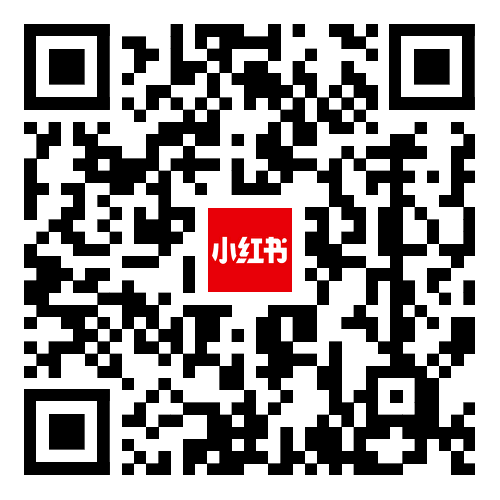
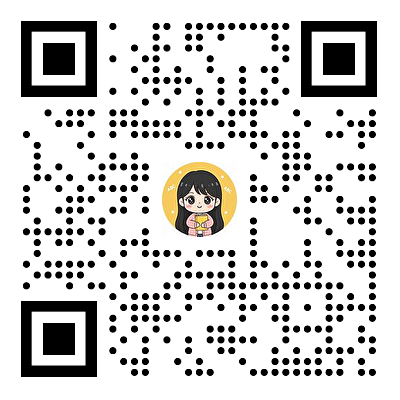
优化官网二维码

diff --git a/index.html b/index.html
@@ -4,7 +4,7 @@
   <meta charset="UTF-8">
   <meta name="viewport" content="width=device-width, initial-scale=1.0">
   <title>班宠乐园 - 游戏化班级管理工具｜宠物养成×课堂评分×随机点名｜小学班主任神器</title>
-  <meta name="description" content="班宠乐园是专为小学老师打造的游戏化班级管理工具。50种虚拟萌宠养成激励学生，3秒完成课堂加分扣分，告别Excel和小红花。支持随机点名、幸运转盘、抢答计分、课堂计时器等6大教学工具，班级积分兑换礼物，光荣榜排行榜激发学生上进心。一次购买永久使用，班主任课堂管理神器。">
+  <meta name="description" content="班宠乐园是专为小学老师打造的游戏化班级管理工具。60种虚拟萌宠养成激励学生，3秒完成课堂加分扣分，告别Excel和小红花。支持随机点名、幸运转盘、抢答计分、课堂计时器等6大教学工具，班级积分兑换礼物，光荣榜排行榜激发学生上进心。一次购买永久使用，班主任课堂管理神器。">
   <meta name="keywords" content="班级管理,班级管理工具,班级管理软件,班级管理系统,班级管理神器,班级管理方法,小学班级管理,在线班级管理,课堂管理,课堂管理工具,课堂纪律管理,学生行为管理,班主任工具,班主任神器,班主任管理工具,教学辅助工具,小学老师工具,小学老师课堂管理神器,游戏化教学,游戏化班级管理,教学游戏化,课堂互动工具,课堂游戏,班宠乐园,班宠,班级宠物,宠物打卡,养宠物管理班级,课堂宠物养成,虚拟宠物养成,宠物养成激励,课堂评分,课堂评分工具,课堂加分扣分,学生评分系统,班级积分,班级积分系统,积分商城,积分兑换礼物,学生积分奖励工具,班级奖励,班级奖惩,学生激励,小红花替代,告别小红花,随机点名,随机点名工具,课堂点名,点名器,幸运转盘,课堂抢答,抢答器,课堂计时器,班级座位表,班级分组,小组管理,班级光荣榜,班级排行榜,学生打卡,班级优化大师替代,班级优化大师平替,ClassDojo中文版,ClassDojo替代,班级小管家">
   <meta name="author" content="班宠乐园">
   <meta name="robots" content="index, follow, max-snippet:-1, max-image-preview:large">
@@ -12,7 +12,7 @@
   <link rel="canonical" href="https://www.learnstar.cn">
   <!-- Open Graph -->
   <meta property="og:title" content="班宠乐园 - 小学老师的游戏化班级管理工具">
-  <meta property="og:description" content="50种萌宠 + 10级成长 + 5套主题 = 孩子们每天都期待的课堂。告别Excel和小红花，3秒完成评分。">
+  <meta property="og:description" content="60种萌宠 + 10级成长 + 5套主题 = 孩子们每天都期待的课堂。告别Excel和小红花，3秒完成评分。">
   <meta property="og:type" content="website">
   <meta property="og:url" content="https://www.learnstar.cn">
   <meta property="og:image" content="https://www.learnstar.cn/images/screenshots/hero.jpg">
@@ -23,7 +23,7 @@
   <!-- Twitter Card -->
   <meta name="twitter:card" content="summary_large_image">
   <meta name="twitter:title" content="班宠乐园 - 小学老师的游戏化班级管理工具">
-  <meta name="twitter:description" content="50种萌宠养成激励学生，3秒完成课堂评分，6大教学工具让课堂更有趣。">
+  <meta name="twitter:description" content="60种萌宠养成激励学生，3秒完成课堂评分，6大教学工具让课堂更有趣。">
   <meta name="twitter:image" content="https://www.learnstar.cn/images/screenshots/hero.jpg">
   <!-- Favicon -->
   <link rel="icon" href="images/favicon.svg" type="image/svg+xml">
@@ -46,7 +46,7 @@
       "priceCurrency": "CNY",
       "availability": "https://schema.org/InStock"
     },
-    "featureList": ["50种虚拟宠物养成", "10级成长体系", "一键课堂评分", "随机点名", "幸运转盘", "抢答计分", "倒计时", "座位抽签", "礼物兑换", "班级光荣榜", "5套主题切换"],
+    "featureList": ["60种虚拟宠物养成", "10级成长体系", "一键课堂评分", "随机点名", "幸运转盘", "抢答计分", "倒计时", "座位抽签", "礼物兑换", "班级光荣榜", "5套主题切换"],
     "screenshot": "https://www.learnstar.cn/images/screenshots/hero.jpg",
     "author": {
       "@type": "Organization",
@@ -132,11 +132,11 @@
         <img src="images/favicon.svg" alt="班宠乐园" class="w-8 h-8">
         <span class="font-display text-[22px] text-slate-800">班宠乐园</span>
       </a>
-      <div class="flex items-center gap-6">
-        <a href="#features" class="hidden md:inline text-sm text-slate-600 hover:text-emerald-600 transition-colors no-underline">功能</a>
-        <a href="#scenes" class="hidden md:inline text-sm text-slate-600 hover:text-emerald-600 transition-colors no-underline">场景</a>
-        <a href="#faq" class="hidden md:inline text-sm text-slate-600 hover:text-emerald-600 transition-colors no-underline">常见问题</a>
-        <a href="#cta" data-xhs="https://xhslink.com/m/204FXEIEJYU" class="js-cta inline-flex items-center px-5 py-2 text-white text-sm font-bold rounded-full transition-all hover:-translate-y-0.5 active:scale-[0.97] no-underline" style="background:linear-gradient(135deg,#10B981,#059669);box-shadow:0 2px 12px rgba(16,185,129,0.4)">立即体验</a>
+      <div class="flex items-center gap-3">
+        <a href="https://pet.learnstar.cn" class="inline-flex items-center px-5 py-2 text-slate-700 text-sm font-bold rounded-full transition-all hover:-translate-y-0.5 active:scale-[0.97] no-underline" style="background:rgba(255,255,255,0.92);border:1px solid rgba(16,185,129,0.18);box-shadow:0 2px 10px rgba(15,23,42,0.06)">
+          注册/登录
+        </a>
+        <a href="#cta" data-xhs="https://xhslink.com/m/204FXEIEJYU" class="js-cta inline-flex items-center px-5 py-2 text-white text-sm font-bold rounded-full transition-all hover:-translate-y-0.5 active:scale-[0.97] no-underline" style="background:linear-gradient(135deg,#10B981,#059669);box-shadow:0 2px 12px rgba(16,185,129,0.4)">立即购买</a>
       </div>
     </div>
   </nav>
@@ -176,13 +176,13 @@
 
       <!-- 副标题 -->
       <p class="fade-up text-emerald-700 text-[clamp(15px,2vw,18px)] mb-8 max-w-xl mx-auto font-medium">
-        50种萌宠 + 10级成长 + 5套主题<br class="md:hidden"> = 孩子们每天都期待的课堂
+        60种萌宠 + 10级成长 + 5套主题<br class="md:hidden"> = 孩子们每天都期待的课堂
       </p>
 
       <!-- CTA 按钮（移动端隐藏，用底部悬浮代替） -->
       <div class="fade-up mb-12 md:mb-16">
         <a href="#cta" data-xhs="https://xhslink.com/m/204FXEIEJYU" class="js-cta hidden md:inline-flex items-center px-8 py-3.5 text-white font-bold text-base rounded-full hover:-translate-y-0.5 active:scale-[0.97] transition-all no-underline" style="background:linear-gradient(135deg,#10B981,#059669);box-shadow:0 4px 20px rgba(16,185,129,0.45),0 2px 8px rgba(0,0,0,0.1)">
-          立即体验
+          立即购买
         </a>
         <p class="mt-3 text-emerald-600/70 text-sm">一次购买 · 永久使用 · 持续更新</p>
       </div>
@@ -264,7 +264,7 @@
         <div class="flex flex-col md:flex-row items-center gap-10 md:gap-14">
           <!-- 左：文字 -->
           <div class="fade-up w-full md:w-[42%]">
-            <h2 class="font-display text-[clamp(24px,4vw,32px)] text-slate-800 mb-4">50 种萌宠，10 级成长</h2>
+            <h2 class="font-display text-[clamp(24px,4vw,32px)] text-slate-800 mb-4">60 种萌宠，10 级成长</h2>
             <p class="text-slate-600 leading-relaxed mb-6">
               每个学生领养一只虚拟宠物。做作业、认真听讲、帮助同学……每次好的表现都能让宠物获得食物
               <img src="https://cdn.jsdelivr.net/gh/twitter/twemoji@14.0.2/assets/svg/1f356.svg" alt="🍖" class="w-4 h-4 inline-block align-text-bottom">，
@@ -274,7 +274,7 @@
             </p>
             <div class="flex flex-wrap gap-2">
               <span class="inline-flex items-center gap-1.5 px-3 py-1.5 bg-emerald-100 rounded-xl text-sm text-emerald-700 font-medium">
-                <img src="https://cdn.jsdelivr.net/gh/twitter/twemoji@14.0.2/assets/svg/1f436.svg" alt="🐕" class="w-4 h-4"> 50种宠物品种
+                <img src="https://cdn.jsdelivr.net/gh/twitter/twemoji@14.0.2/assets/svg/1f436.svg" alt="🐕" class="w-4 h-4"> 60种宠物品种
               </span>
               <span class="inline-flex items-center gap-1.5 px-3 py-1.5 bg-blue-100 rounded-xl text-sm text-blue-700 font-medium">
                 <img src="https://cdn.jsdelivr.net/gh/twitter/twemoji@14.0.2/assets/svg/1f4c8.svg" alt="📈" class="w-4 h-4"> 10级成长体系
@@ -287,14 +287,50 @@
           <!-- 右：产品截图 -->
           <div class="fade-up w-full md:w-[58%]">
             <div class="rounded-xl overflow-hidden" style="box-shadow:0 4px 8px rgba(0,0,0,0.04),0 16px 40px rgba(16,185,129,0.12),0 30px 80px rgba(16,185,129,0.08);border:2px solid rgba(255,255,255,0.7)">
-              <img src="images/screenshots/chongwu.webp" alt="班宠乐园50种虚拟萌宠 - 宠物养成激励学生" class="w-full img-preview" loading="lazy" decoding="async" width="1084" height="1140" onclick="showPreview(this.src,this.alt)">
+              <img src="images/screenshots/chongwu.webp" alt="班宠乐园60种虚拟萌宠 - 宠物养成激励学生" class="w-full img-preview" loading="lazy" decoding="async" width="1084" height="1140" onclick="showPreview(this.src,this.alt)">
             </div>
           </div>
         </div>
       </div>
     </section>
 
-    <!-- 功能二：打卡评分 - 左截图右文（镜像） -->
+    <!-- 功能二：饥饿模式 - 居中大卡 -->
+    <section class="py-16 md:py-24 relative overflow-hidden bg-grain" style="background:linear-gradient(180deg,#F2FCF7 0%,#F8FDFB 100%)">
+      <div class="max-w-[1100px] mx-auto px-5">
+        <div class="max-w-[760px] mx-auto text-center mb-10">
+          <span class="fade-up inline-flex items-center gap-1.5 px-3 py-1 rounded-full text-xs font-semibold mb-3 tag-cream" style="background:#D1FAE5;color:#047857">
+            <img src="https://cdn.jsdelivr.net/gh/twitter/twemoji@14.0.2/assets/svg/1f356.svg" alt="🍖" class="w-3.5 h-3.5"> 进阶玩法
+          </span>
+          <h2 class="fade-up font-display text-[clamp(24px,4vw,32px)] text-slate-800 mb-4">饥饿模式，让宠物养成更有牵引力</h2>
+          <p class="fade-up text-slate-600 leading-relaxed mb-6">
+            可以给已领养且未满级的宠物设置“多久进入饥饿、多久进入死亡阶段”。支持跳过法定节假日和周末，
+            学生一旦松懈，宠物状态会立刻变化；重新加分后又能马上恢复，激励会更直观。
+          </p>
+          <div class="fade-up flex flex-wrap items-center justify-center gap-2">
+            <span class="inline-flex items-center gap-1.5 px-3 py-1.5 bg-emerald-100 rounded-xl text-sm text-emerald-700 font-medium">
+              <img src="https://cdn.jsdelivr.net/gh/twitter/twemoji@14.0.2/assets/svg/1f43e.svg" alt="🐾" class="w-4 h-4"> 仅对已领养且未满级生效
+            </span>
+            <span class="inline-flex items-center gap-1.5 px-3 py-1.5 bg-blue-100 rounded-xl text-sm text-blue-700 font-medium">
+              <img src="https://cdn.jsdelivr.net/gh/twitter/twemoji@14.0.2/assets/svg/1f4c5.svg" alt="📅" class="w-4 h-4"> 支持跳过节假日
+            </span>
+            <span class="inline-flex items-center gap-1.5 px-3 py-1.5 bg-rose-100 rounded-xl text-sm text-rose-700 font-medium">
+              <img src="https://cdn.jsdelivr.net/gh/twitter/twemoji@14.0.2/assets/svg/23f3.svg" alt="⏳" class="w-4 h-4"> 饥饿后可继续进入死亡阶段
+            </span>
+          </div>
+        </div>
+
+        <div class="fade-up mx-auto" style="max-width:680px">
+          <div class="rounded-[28px] overflow-hidden" style="box-shadow:0 4px 8px rgba(0,0,0,0.04),0 18px 44px rgba(16,185,129,0.10),0 32px 90px rgba(245,158,11,0.10);border:2px solid rgba(255,255,255,0.75)">
+            <img src="images/screenshots/hungry.jpg" alt="班宠乐园宠物饥饿模式界面 - 左侧进入饥饿状态，右侧进入饿死状态" class="w-full img-preview" loading="lazy" decoding="async" width="930" height="669" onclick="showPreview(this.src,this.alt)">
+          </div>
+          <p class="mt-4 text-center text-sm text-slate-500">
+            左侧展示“肚子饿了”，右侧展示“饿死了”。老师再次加分后，宠物会立即恢复活力。
+          </p>
+        </div>
+      </div>
+    </section>
+
+    <!-- 功能三：打卡评分 - 左截图右文（镜像） -->
     <section class="py-16 md:py-24 relative overflow-hidden bg-grain" style="background:linear-gradient(180deg,#FFFDF5 0%,#FFFEF8 100%)">
       <div class="max-w-[1100px] mx-auto px-5">
         <div class="flex flex-col md:flex-row items-center gap-10 md:gap-14">
@@ -326,7 +362,7 @@
       </div>
     </section>
 
-    <!-- 功能三：礼物兑换 + 光荣榜 - 左文右截图 + 双卡 -->
+    <!-- 功能四：礼物兑换 + 光荣榜 - 左文右截图 + 双卡 -->
     <section class="py-16 md:py-24 relative overflow-hidden bg-grain" style="background:linear-gradient(180deg,#FFF8F8 0%,#FFFAFA 50%,#FFFDFD 100%)">
       <div class="max-w-[1100px] mx-auto px-5">
         <!-- 标题 + 截图区 -->
@@ -356,7 +392,7 @@
       </div>
     </section>
 
-    <!-- 功能四：工具箱 - 3x2 网格 -->
+    <!-- 功能五：工具箱 - 3x2 网格 -->
     <section class="py-16 md:py-24 relative overflow-hidden bg-grain" style="background:linear-gradient(180deg,#F9F8FD 0%,#FBFAFF 100%)">
       <div class="max-w-[1100px] mx-auto px-5">
         <div class="text-center mb-10">
@@ -552,8 +588,15 @@
       <p class="fade-up text-white/80 text-base mb-8">关注「橙老师」，获取使用教程和班级管理干货</p>
 
       <!-- 小红书二维码卡片 -->
-      <div class="fade-up inline-block bg-white rounded-[24px] p-6 shadow-2xl animate-breathe mb-6 card-cream" style="--card-shadow:rgba(16,185,129,0.15)">
-        <img src="images/screenshots/erwei.webp" alt="关注小红书橙老师 - 获取班宠乐园使用教程和班级管理干货" class="w-[260px] md:w-[300px] rounded-xl mx-auto" loading="lazy" decoding="async" width="987" height="1347">
+      <div class="fade-up inline-block animate-breathe mb-6" style="padding:12px;background:linear-gradient(180deg,#10B981 0%,#059669 100%);border-radius:36px;box-shadow:0 18px 50px rgba(4,120,87,0.28),0 8px 20px rgba(16,185,129,0.18)">
+        <div style="background:#ffffff;border-radius:30px;padding:18px 18px 26px;box-shadow:inset 0 1px 0 rgba(255,255,255,0.85)">
+          <div class="mx-auto mb-6 overflow-hidden" style="width:min(320px,74vw);aspect-ratio:1 / 1;border-radius:24px;background:#fff;box-shadow:inset 0 1px 0 rgba(255,255,255,0.9)">
+            <img src="images/screenshots/erweima.png" alt="关注小红书橙老师二维码" loading="lazy" decoding="async" width="400" height="400" style="display:block;width:100%;height:100%;object-fit:contain">
+          </div>
+          <div class="text-center px-2">
+            <h3 class="text-[clamp(18px,2.8vw,24px)] text-slate-800 font-bold leading-none mb-3">橙老师</h3>
+          </div>
+        </div>
       </div>
 
     </div>
@@ -568,7 +611,7 @@
         <span class="text-[11px] text-emerald-600/70">让孩子主动变优秀</span>
       </div>
     </div>
-    <span class="inline-flex items-center px-6 py-2.5 text-white font-bold text-sm rounded-full animate-breathe" style="background:linear-gradient(135deg,#10B981,#059669);box-shadow:0 4px 16px rgba(16,185,129,0.4)">立即体验</span>
+    <span class="inline-flex items-center px-6 py-2.5 text-white font-bold text-sm rounded-full animate-breathe" style="background:linear-gradient(135deg,#10B981,#059669);box-shadow:0 4px 16px rgba(16,185,129,0.4)">立即购买</span>
   </a>
 
   <!-- ========== Footer ========== -->

diff --git a/README.md b/README.md
@@ -1,0 +1,124 @@
+# 班宠乐园官网
+
+班宠乐园官网是 `learnstar.cn / www.learnstar.cn` 的独立静态站点，用于产品介绍、搜索收录和小红书流量承接。这个项目不是主应用 `class_pet` 的一部分，定位是单页营销落地页。
+
+## 项目定位
+
+- 面向从小红书、微信等渠道进入的小学老师用户
+- 核心目标是“介绍产品特点 -> 引导扫码/访问使用”
+- 页面风格强调可爱插画感、低模板味、强移动端适配
+
+## 技术栈
+
+- `HTML5`：页面结构全部写在 [index.html](./index.html)
+- `Tailwind CSS v4`：样式源文件是 [input.css](./input.css)
+- `原生 JavaScript`：交互逻辑在 [js/main.js](./js/main.js)
+- `自托管字体`：`/fonts`
+- `Cloudflare Pages`：静态部署
+
+当前线上入口实际引用的是 [dist/style.css](./dist/style.css)。
+
+## 目录结构
+
+```text
+learnstar-website/
+├── index.html
+├── input.css
+├── dist/
+│   └── style.css
+├── js/
+│   └── main.js
+├── fonts/
+├── images/
+│   ├── pets/
+│   └── screenshots/
+├── svg/
+├── _redirects
+├── robots.txt
+├── sitemap.xml
+└── package.json
+```
+
+补充说明：
+
+- `dist/style.css`：当前生效的编译产物
+- `css/style.css`：历史保留文件，当前 `index.html` 不引用它
+
+## 本地开发
+
+安装依赖：
+
+```bash
+pnpm install
+```
+
+监听 Tailwind 编译：
+
+```bash
+pnpm dev
+```
+
+生产构建：
+
+```bash
+pnpm build
+```
+
+如果需要本地预览静态页面，可以在项目根目录启动一个简单静态服务，例如：
+
+```bash
+python3 -m http.server 4173
+```
+
+然后访问 `http://localhost:4173`。
+
+## 修改入口
+
+常见改动对应文件如下：
+
+- 页面文案、SEO、区块结构：`index.html`
+- 字体、动画、组件样式、公用视觉变量：`input.css`
+- 滚动入场、导航阴影、锚点滚动、图片预览、移动端 CTA：`js/main.js`
+- 宠物图、产品截图、二维码：`images/`
+- SVG 装饰素材：`svg/`
+
+## 页面结构
+
+当前页面大致分为这些区块：
+
+1. 顶部导航
+2. Hero 首屏
+3. 痛点共鸣
+4. 核心功能展示
+5. 产品亮点
+6. 使用场景时间线
+7. FAQ
+8. CTA 获取区域
+9. Footer
+
+## 修改注意事项
+
+- 不要手改 `dist/style.css`，样式应优先改 `input.css` 后重新构建
+- 页面依赖自托管字体和本地图片，新增资源尽量继续放本项目内，避免引入新的外部 CDN
+- 当前唯一明确的外部资源依赖是 Twemoji 的 `jsdelivr` SVG 链接
+- `js-cta` 按钮在移动端会被脚本替换成小红书跳转链接，改 CTA 时要同时检查桌面和移动逻辑
+- 页面是纯静态站，没有框架层的路由、状态管理和构建注入机制，修改时需要手动核对资源路径
+
+## 发布方式
+
+构建完成后可用 Cloudflare Pages 部署：
+
+```bash
+npx wrangler pages deploy . --project-name=learnstar-website --commit-dirty=true
+```
+
+如果只改了文案、图片或 HTML，也建议重新执行一次 `pnpm build`，确保 `dist/style.css` 与当前源码一致。
+
+## 上线前自查
+
+- 页面在桌面端和移动端都能正常打开
+- `index.html` 引用的资源路径真实存在
+- 首屏图片、二维码、宠物图正常显示
+- CTA 跳转和锚点滚动正常
+- `robots.txt`、`sitemap.xml`、canonical、结构化数据没有被误改
+- 构建后 `dist/style.css` 已更新
